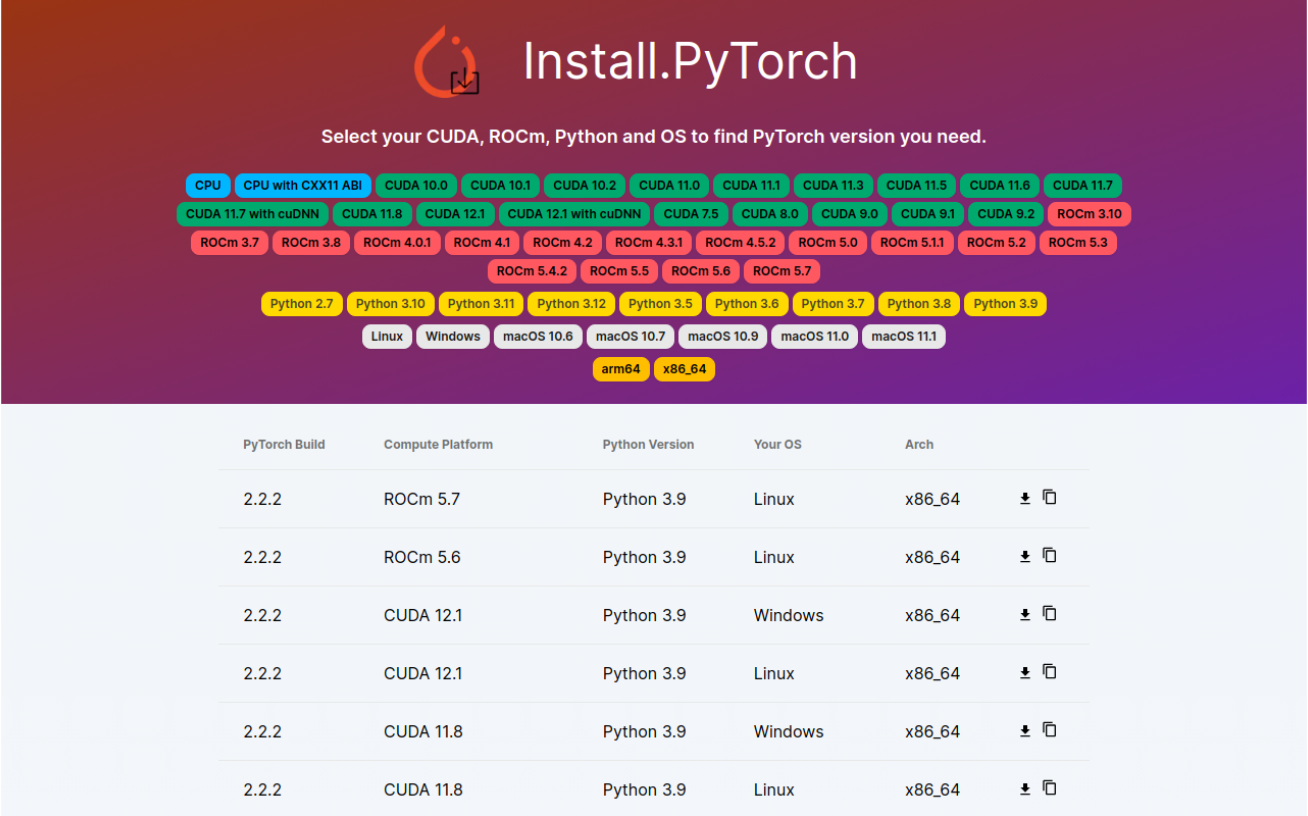
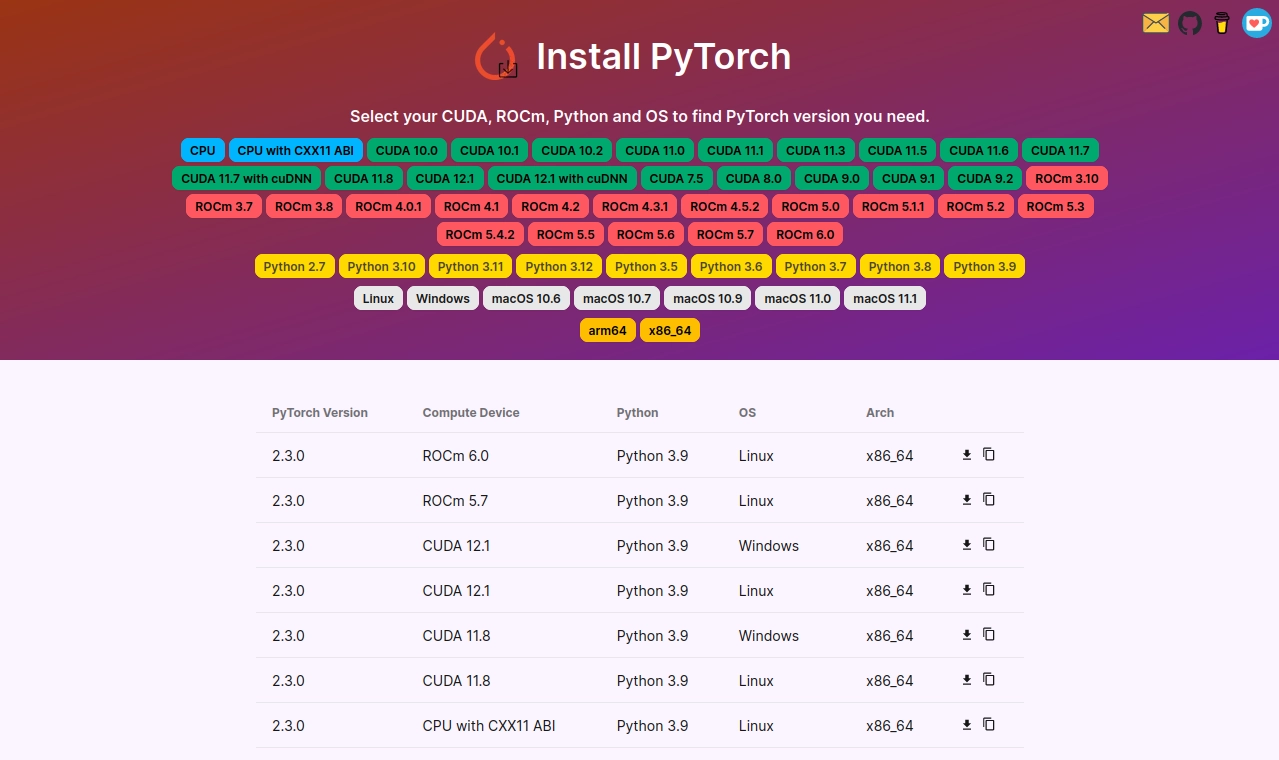
update og, adjust navbar

diff --git a/app/page.tsx b/app/page.tsx
@@ -36,12 +36,12 @@ export async function generateMetadata({
   const baseUrl = "https://install.pytorch.site";
   let title = "Install PyTorch - Find the right torch version";
   let description =
-    "Filter by CUDA, ROCm, Python, or your operating system to find the specific version of Torch you need. " +
+    "Filter by CUDA, ROCm, Python, or your operating system to find the specific version of PyTorch you need. " +
     "Either copy the pip install command-line instruction or download the .whl file directly.";
   if (mainFilter && mainFilterType) {
     title = `${mainFilter} | Install PyTorch`;
     description =
-      `List all Torch versions that support ${mainFilter}. Find the right version you need. ` +
+      `List all PyTorch versions that support ${mainFilter}. Find the right version you need. ` +
       `Either copy the pip install command-line instruction or download the .whl file directly.`;
     const params = new URLSearchParams();
     params.set(mainFilterType, mainFilter);

diff --git a/app/components/navbar.tsx b/app/components/navbar.tsx
@@ -11,18 +11,18 @@ export default function Navbar(props: {
   return (
     <header className="navbar header-background flex-col">
       <Link href="/">
-        <Image
-          src={"/static/icon.webp"}
-          alt="install pytorch logo"
-          width={48}
-          height={48}
-        />
-        <h1 className="text-4xl text-white btn btn-ghost my-6">
-          Install PyTorch
-        </h1>
+        <div className="flex btn btn-ghost my-4 space-x-2">
+          <Image
+            src={"/static/icon.webp"}
+            alt="install pytorch logo"
+            width={48}
+            height={48}
+          />
+          <h1 className="text-4xl text-white">Install PyTorch</h1>
+        </div>
       </Link>
       <h2 className="font-semibold text-white">
-        Select your CUDA, ROCm, Python and OS to find PyTorch version you need.
+        Your one-stop solution for easy PyTorch installation.
       </h2>
       <Search
         device={props.device}
